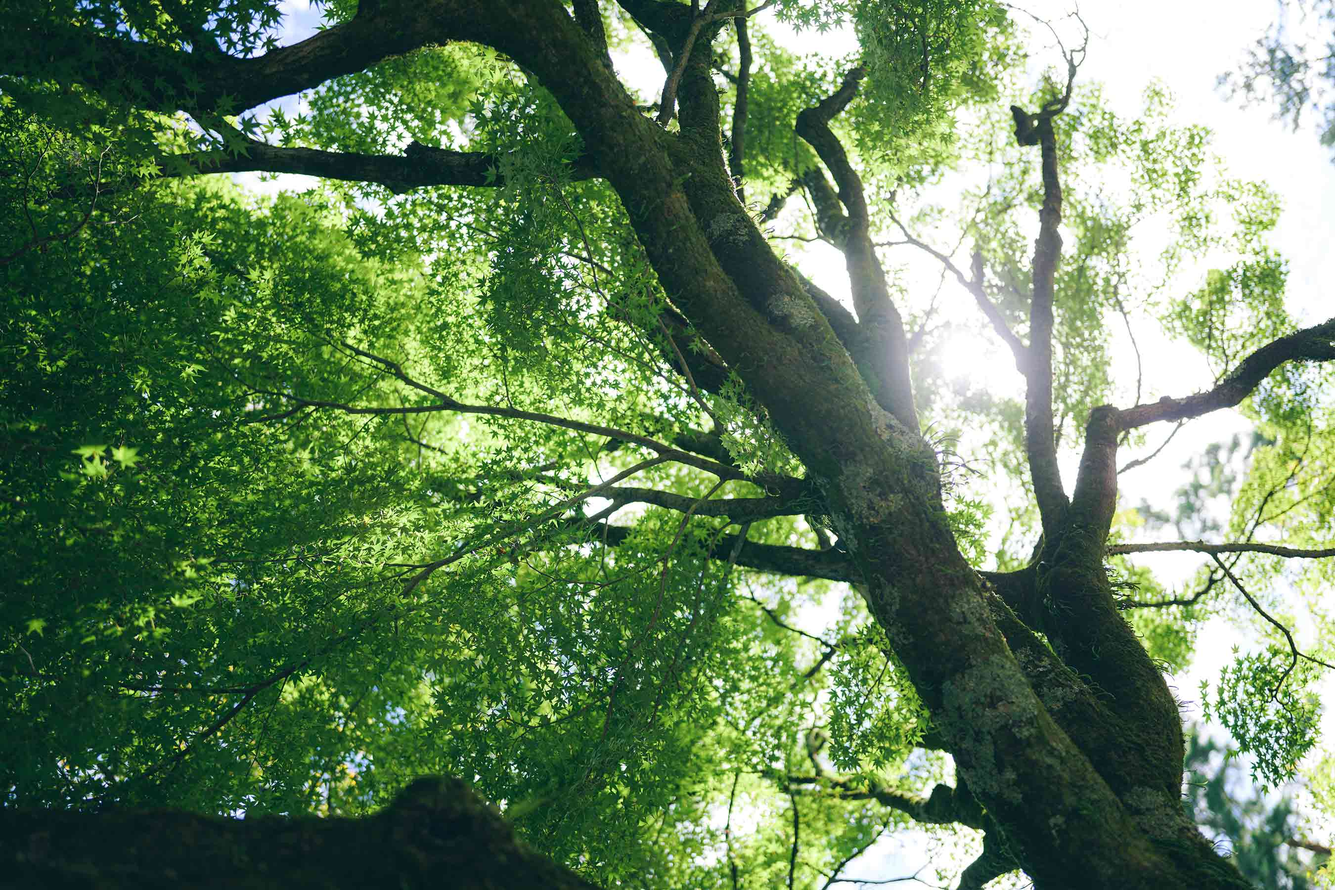
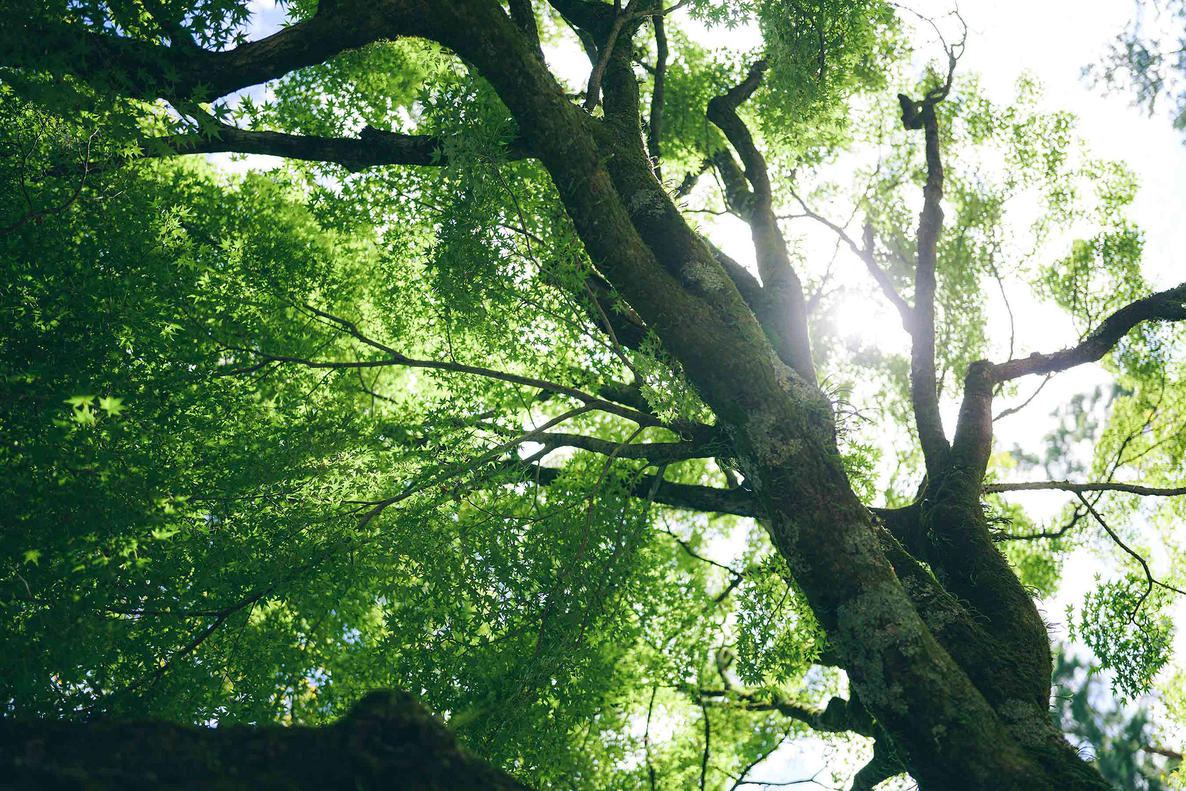
change to high quality2

diff --git a/layouts/partials/hero/big.html b/layouts/partials/hero/big.html
@@ -1,0 +1,15 @@
+{{ $disableImageOptimization := .Page.Site.Params.disableImageOptimization |
+default false }} {{- $images := .Resources.ByType "image" -}} {{- $featured :=
+$images.GetMatch "*feature*" -}} {{- if not $featured }}{{ $featured =
+$images.GetMatch "{*cover*,*thumbnail*}" }}{{ end -}} {{- with $featured -}} {{
+if $disableImageOptimization }} {{ with . }}
+<img
+  class="w-full rounded-lg single_hero_round nozoom"
+  src="{{ .RelPermalink }}"
+/>
+{{ end }} {{ else }} {{ with .Resize "1800x" }}
+<img
+  class="w-full rounded-lg single_hero_round nozoom"
+  src="{{ .RelPermalink }}"
+/>
+{{ end }} {{ end }} {{- end -}}

diff --git a/content/blog/007_210530/index.md b/content/blog/007_210530/index.md
@@ -1,0 +1,89 @@
+---
+title: iCloud Drive はあらゆるファイルが同期されるわけではない
+description: iCloud Drive を開発用ファイルの保存場所にするには注意が必要です
+summary: 開発における iCloud Drive の注意点
+categories: ["Apple"]
+tags: ["macOS"]
+date: 2021-05-30
+lastmod: 2023-01-08
+slug: 007-be-careful-files-sync-by-icloud
+---
+
+データ管理についての備忘録です。最終的には記事タイトルのことに行き着いた、失敗から得た学びです。
+
+僕は開発系のファイルを含めて、ざっくりした作業ディレクトリを作っています。Coding とか Photo とか Sandbox とか。それらを定期的に外部ストレージにバックアップしたり、GitHub で管理します。
+
+ある日、データ管理について考えることがありました。
+
+## 我、名案、閃キ
+
+ふと思ったのです。
+
+開発系ファイル一式を iCloud Drive（正確には macOS の Documents ディレクトリ）に移動したら 2 重で保存されていいじゃなーい！？
+
+嬉々としてフォルダを移動したものの、完全同期されるまで 1 日じゃ終わりませんでした。
+
+どうやら 1 万や 10 万といった大量ファイルの同期リクエストがなされると、ファイルサイズに関わらず、とてつもなく時間がかかるようです。調べてみると、これは Dropbox でも同様でした。
+
+> venv や node_modules といったものまであったので、そりゃもう大量のファイルがありました・・・。通常は `.gitignore` に書いて除外しますもんね
+
+## 「.」で始まるファイルがなくなってる
+
+さて、同期もおわり iTerm でのぞいてみると「.git」や「.gitignore」、「.eslintrc.js」などがことごとくない！！
+
+どうも iCloud Drive の仕様で、何でもかんでも同期されるわけじゃないようですね。Stack Overflow や Apple のサイトをみるに、そのことが書かれていました。
+
+## 情報源
+
+### 1. [iCloud Drive FAQ - Apple Support](https://support.apple.com/en-us/HT201104)
+
+「What types of files can I store in iCloud Drive?」の項には、こう書かれています。
+
+> You shouldn't store app folders, libraries, or .tmp files in iCloud Drive.
+
+> 訳）アプリフォルダー、ライブラリ、または.tmp ファイルを iCloud ドライブに保存しないでください。
+
+### 2. [github - Can Git and iCloud Drive be effectively used together? - Stack Overflow](https://stackoverflow.com/questions/35853139/can-git-and-icloud-drive-be-effectively-used-together/51253959#51253959)
+
+`.git` は上記のアプリフォルダーとして扱われているとのこと。
+
+### 3. [How to exclude a sub folder from iCloud drive in macOS Sierra? - Ask Different](https://apple.stackexchange.com/questions/254313/how-to-exclude-a-sub-folder-from-icloud-drive-in-macos-sierra/295929#295929)
+
+こちらには具体的にどんなファイルが同期されないかがリストアップされていました。以下、Stack Overflow から拝借。2021年5月現在の情報です。
+
+> **Filename:**<br>
+is .DS_Store<br>
+begins with (A Document Being Saved<br>
+contains .nosync (in any case)<br>
+is .ubd<br>
+contains .weakpkg<br>
+is tmp (in any case)<br>
+is .tmp (in any case)<br>
+is desktop.ini (in any case)<br>
+begins with ~$<br>
+is Microsoft User Data (in any case)<br>
+is $RECYCLE.BIN (in any case)<br>
+is iPhoto Library (in any case)<br>
+is Dropbox (in any case)<br>
+is OneDrive (in any case)<br>
+is IDrive-Sync (in any case)<br>
+is .dropbox (in any case)<br>
+is .dropbox.attr (in any case)<br>
+is icon\r (in any case)<br>
+<br>
+**Extension is (in any case):**<br>
+tmp<br>
+photoslibrary<br>
+photolibrary<br>
+aplibrary<br>
+migratedaplibrary<br>
+migratedphotolibrary<br>
+migratedaperturelibrary
+
+## おわりに
+
+iCloud Drive はたいていの場合は普通のストレージとして使えますが、物理ストレージと同じではないってことですね。認識を改めないと。
+
+現在、クラウドがあたりまえになっています。使いようによっては手間のかからないバックアップ手段ともなりますが、物理ストレージではありません。
+
+僕の用途としては写真ファイルもありますから、物理的なバックアップはまだまだ必要だと思うのでした。

diff --git a/content/about/index.md b/content/about/index.md
@@ -13,8 +13,6 @@ sharingLinks: false
 
 ### Me
 
-![](./about-0.jpg)
-
 花村貴史 / Takashi Hanamura です。
 
 - ソフトウェアエンジニア
@@ -31,16 +29,22 @@ sharingLinks: false
 
 ### Site
 
+#### nnamm.work
+
 - nnamm.work の work は作品のこと
 - 技術的なネタや日々のことを書きためる場所
 - 作品を紹介する Hub となる場所
 
 を静的サイトジェネレーターを使って運営していきます。
 
-### Static Site Generators
+#### Changes in Static Site Generators
 
-SSG はこれまで [Gridsome](https://gridsome.org/)、[Pelican](https://blog.getpelican.com/) と使ってきてました。Pelican では [Tailwind CSS](https://tailwindcss.com/) を利用したテーマを自作してウキウキしていたのですが、サイトのビルドに時間がかかるのがネック。
+- [Gridsome](https://gridsome.org/)
+- [Pelican](https://blog.getpelican.com/)
+- [Hugo](https://gohugo.io/)  ← Now
 
-そこで速度重視の [Hugo](https://gohugo.io/) に移行することに。テーマは [Blowfish](https://github.com/nunocoracao/blowfish) をカスタムしています。実際にビルドは速いです。
+SGG デビューは Gridsome でした。次にテーマが作りやすそうな Pelican に移行。[Tailwind CSS](https://tailwindcss.com/) を利用した自作テーマを使ってウキウキしていましたが、ビルドに時間がかかるのがネック。
+
+そこで速度重視の Hugo に移行することに。テーマは [Blowfish](https://github.com/nunocoracao/blowfish) をカスタムしています。実際にビルドは速いです。
 
 SSG は SPA や WordPress とは違い、静的ファイルが生成されるだけだから非常にシンプルですね。
